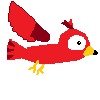
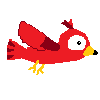
bird animation when jumping

Changed region(s): [[0.06, 0.0, 0.6, 0.51]]

diff --git a/core/src/main/java/se/yrgo/g6/jumpybirb/FirstScreen.java b/core/src/main/java/se/yrgo/g6/jumpybirb/FirstScreen.java
@@ -45,7 +45,9 @@ public class FirstScreen implements Screen {
     Texture birbFlapSheet;
     Animation<TextureRegion> flapAnimation;
     float stateTime;
-    private static final int COLS = 3;
+    private static final int COLS = 4;
+    private boolean isJumping;
+    private float animationTimer = 0;
 
     public FirstScreen(BirbGame game, FitViewport viewport, Birb birb, Obstacle obstacle) {
         this.game = game;
@@ -74,6 +76,8 @@ public class FirstScreen implements Screen {
         TextureRegion[][] tmp = TextureRegion.split(birbFlapSheet,
             birbFlapSheet.getWidth() / COLS,
             birbFlapSheet.getHeight());
+        isJumping = false;
+
 
         TextureRegion[] flapFrames = new TextureRegion[COLS];
         int index = 0;
@@ -119,9 +123,12 @@ public class FirstScreen implements Screen {
         batch.draw(background, 0, 0, worldWidth, worldHeight);
 
         // animation
+
+        if (isJumping){
         TextureRegion currentFrame = flapAnimation.getKeyFrame(stateTime, true);
         batch.draw(currentFrame, birbSprite.getX(), birbSprite.getY());
-        // birbSprite.draw(batch);
+        }
+        else birbSprite.draw(batch);
 
         for (Sprite obstacle : obstacleSprites) {
             obstacle.draw(batch);
@@ -137,7 +144,7 @@ public class FirstScreen implements Screen {
             velocity = jumpStrenght;
             // For now score is increased when jumping.
             game.setScore(game.getScore() + 1);
-            ;
+            isJumping = true;
         }
         // When pressing ESC, pause game and hide birb
         if (Gdx.input.isKeyJustPressed(Input.Keys.ESCAPE)) {
@@ -189,6 +196,11 @@ public class FirstScreen implements Screen {
 
         birbSprite.setY(MathUtils.clamp(birbSprite.getY(), -51,worldHeight - 100));
 
+        animationTimer += delta;
+        if (animationTimer >= 0.5){
+            animationTimer = 0;
+            isJumping = false;
+        }
     }
 
     @Override
